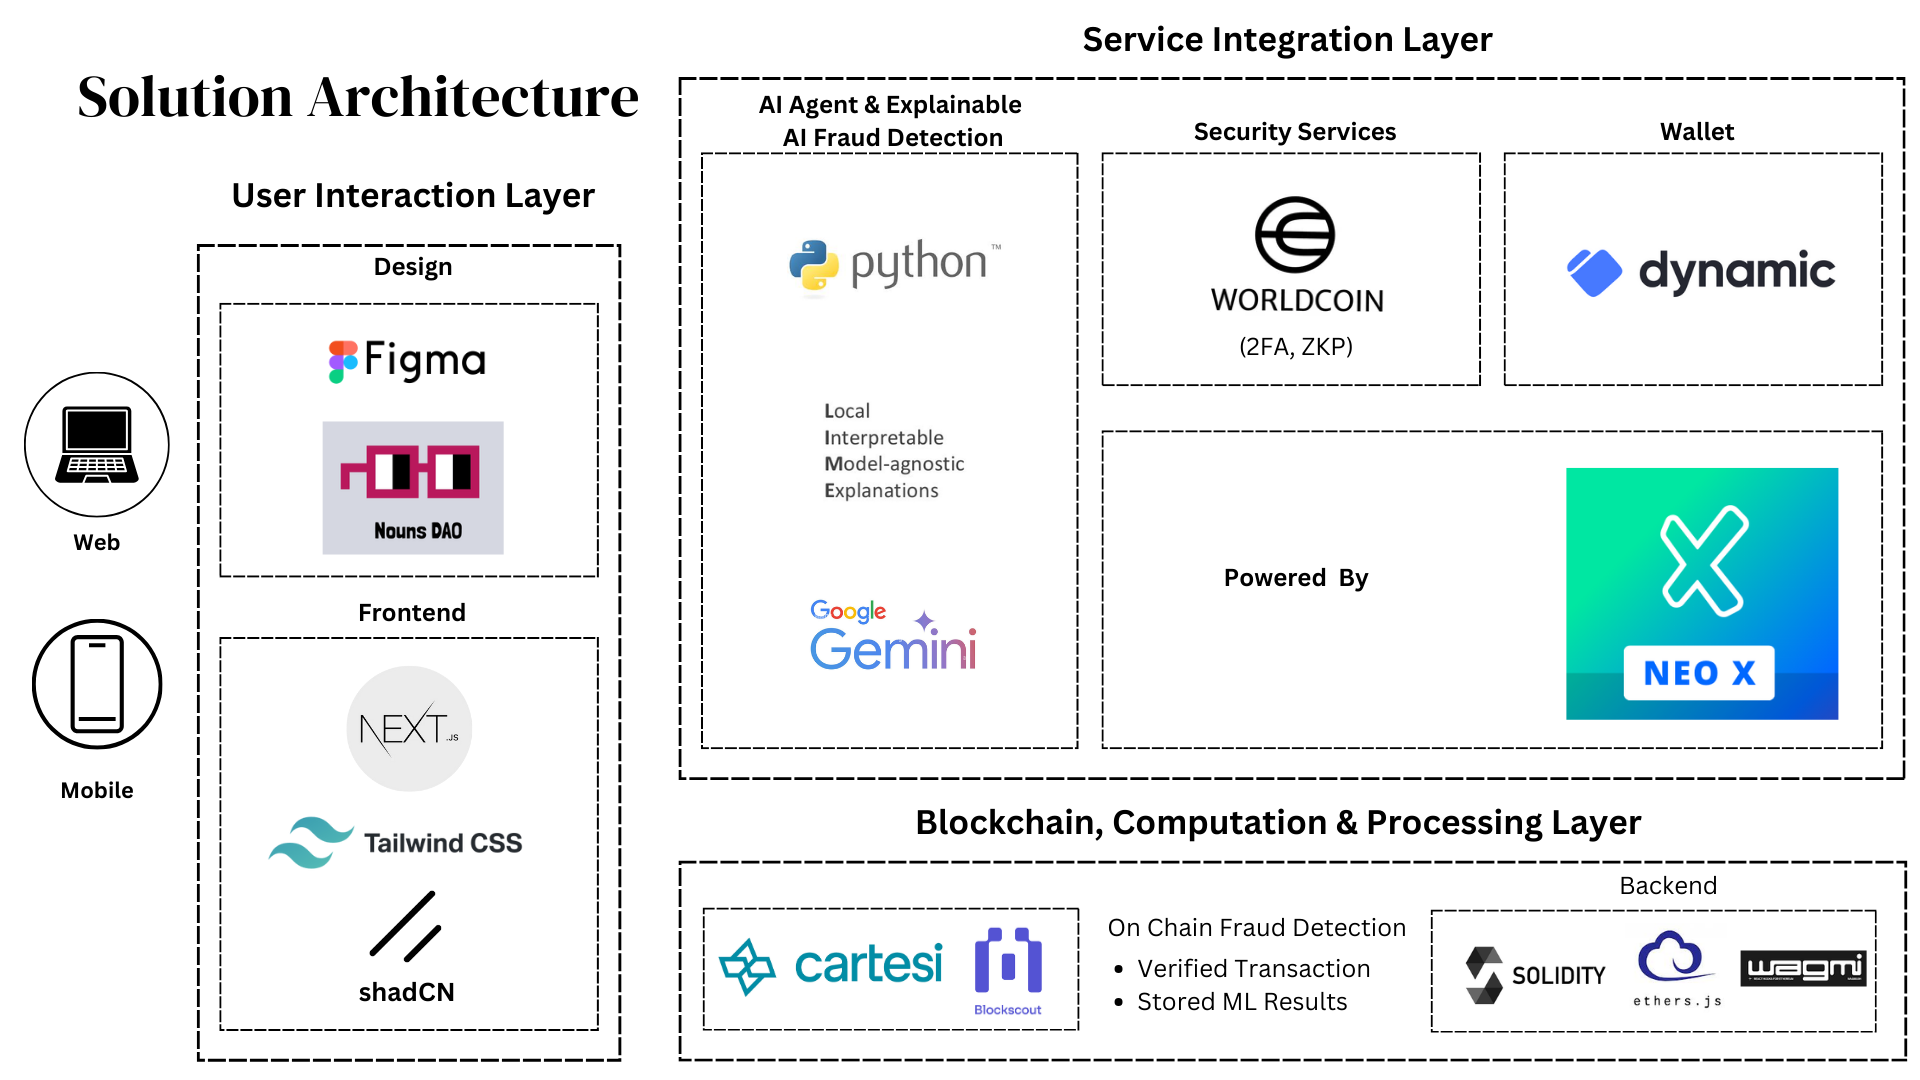
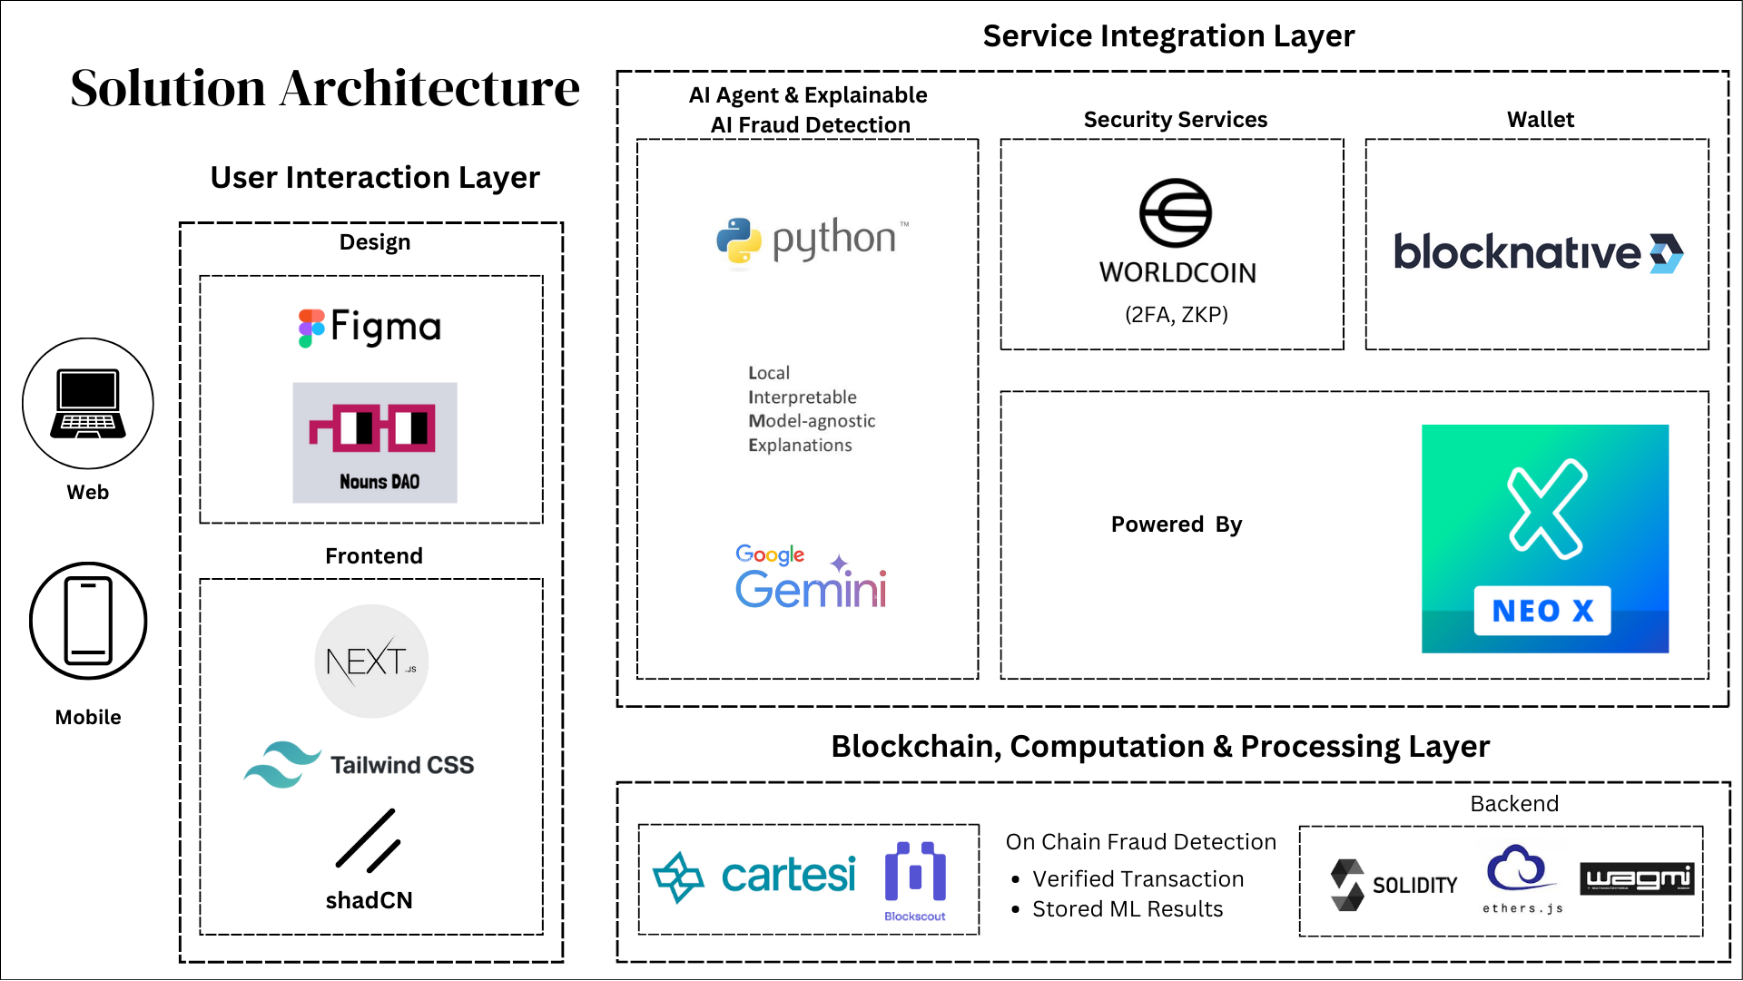
docs: finalize readme

diff --git a/README.md b/README.md
@@ -4,7 +4,7 @@
   
   <img src="brand-assets/app_logo.gif" alt="Coiny logo" width="120" height="120">
 
- # Coiny: 𝐀𝐈 𝐀𝐠𝐞𝐧𝐭-𝐏𝐨𝐰𝐞𝐫𝐞𝐝 𝐌𝐮𝐥𝐭𝐢𝐬𝐢𝐠 𝐖𝐚𝐥𝐥𝐞𝐭
+ # 𝐂𝐨𝐢𝐧𝐲: 𝐀𝐈 𝐀𝐠𝐞𝐧𝐭-𝐏𝐨𝐰𝐞𝐫𝐞𝐝 𝐌𝐮𝐥𝐭𝐢𝐬𝐢𝐠 𝐖𝐚𝐥𝐥𝐞𝐭
 
   
   <h3>Wallet setup so easy, your grandma could do it.</h3>
@@ -15,10 +15,10 @@
 
 
   <div align="center">
-    <a href="https://www.canva.com/design/DAGTitVXqlE/t7WkGXMlWDlaivduh9fXww/edit?utm_content=DAGTitVXqlE&utm_campaign=designshare&utm_medium=link2&utm_source=sharebutton" target="_blank">
+    <a href="https://www.canva.com/design/DAGTitVXqlE/OmAGwNlMETwuiE7WTlD7QQ/view?utm_content=DAGTitVXqlE&utm_campaign=designshare&utm_medium=link2&utm_source=uniquelinks&utlId=hb0f7386611" target="_blank">
       <img src="https://img.shields.io/badge/View%20Whitepaper-E6A8D7?style=for-the-badge&logo=readthedocs&logoColor=white" alt="Whitepaper" />
     </a>
-    <a href="https://www.canva.com/design/DAGWFu9r5Tg/KvKgIk_9lf0UqSxUlkW_Tg/edit?utm_content=DAGWFu9r5Tg&utm_campaign=designshare&utm_medium=link2&utm_source=sharebutton" target="_blank">
+    <a href="https://www.canva.com/design/DAGWFu9r5Tg/5bVga_r5qXrpsTZ2pkb_2g/view?utm_content=DAGWFu9r5Tg&utm_campaign=designshare&utm_medium=link2&utm_source=uniquelinks&utlId=h5bbc6ab241" target="_blank">
       <img src="https://img.shields.io/badge/View%20Pitch%20Deck-B9E8E0?style=for-the-badge&logo=slideshare&logoColor=white" alt="Pitch Deck" />
     </a>
   </div>
@@ -30,8 +30,8 @@
   <div>
     <img src="brand-assets/neo_x_logo.png" alt="Neo X" width="40" height="40" style="margin: 10px;">
     <img src="https://cryptologos.cc/logos/worldcoin-org-wld-logo.png?v=035" alt="World ID" width="40" height="40" style="margin: 10px;">
-    <img src="https://cdn.prod.website-files.com/626692727bba3f384e008e8a/6499b55a681541b17b9c9854_logo-white-dynamic.png" alt="Dynamic" width="60" height="40" style="margin: 10px;">
-    <img src="brand-assets/blockscout_logo.png" alt="Blockscout" width="60" height="40" style="margin: 10px;">
+    <img src="brand-assets/blocknative_logo.png" alt="Blocknative" width="40" height="40" style="margin: 10px;">
+    <img src="brand-assets/blockscout_logo.png" alt="Blockscout" width="40" height="40" style="margin: 10px;">
   </div>
 
 </div>
@@ -51,7 +51,7 @@
 
 ---
 ## 𝐎𝐯𝐞𝐫𝐯𝐢𝐞𝐰
-𝐊𝐚-𝐂𝐡𝐢𝐧𝐠 is an AI-driven multisig wallet designed to make managing and securing digital assets simple and accessible. Powered by advanced AI features and decentralized protocols, Coiny enables real-time fraud detection, AI-assisted wallet creation, customizable security, and a gamified experience—all built to work seamlessly in the Web 3 ecosystem.
+Coiny is an AI-driven multisig wallet designed to make managing and securing digital assets simple and accessible. Powered by advanced AI features and decentralized protocols, Coiny enables real-time fraud detection, AI-assisted wallet creation, customizable security, and a gamified experience—all built to work seamlessly in the Web 3 ecosystem.
 
 <p align="right">(<a href="#readme-top">back to top</a>)</p>
 
@@ -136,17 +136,23 @@ Investing in Coiny means supporting a transformative leap in the DeFi space. Our
 
 ## Contract Deployment (Verified)
 
-| Bounty              | Contract Name(s)                              | Address(es)                                                                                                                   | Link(s)                                                                                                                                                                                                                                                                                                                                                                                                                                                                                     | Contract Verification | Status    |
-|---------------------|-----------------------------------------------|-------------------------------------------------------------------------------------------------------------------------------|---------------------------------------------------------------------------------------------------------------------------------------------------------------------------------------------------------------------------------------------------------------------------------------------------------------------------------------------------------------------------------------------------------------------------------------------------------------------------------------------|-----------------------|-----------|
-| Mantle             | Tuktra.sol                                    | 0xea2855a25aaca144af352d413375dac883b9ec3e                                                                                    | [Mantle Scan](https://sepolia.mantlescan.xyz/address/0xea2855a25aaca144af352d413375dac883b9ec3e#code)                                                                                                                                                                                                                                                                                                                                                | Verified              | Deployed  |
-| Morph Holesky Testnet | Tuktra.sol                                    | 0x3d981849e32b8ec58dcab7706b667005880d5ac6                                                                                    | [Morph Holesky](https://explorer-holesky.morphl2.io/address/0x3D981849E32b8ec58dcAb7706b667005880D5Ac6?tab=contract)                                                                                                                                                                                                                                                                                                                                  | Verified              | Deployed  |
-| Zircult Testnet    | Tuktra.sol                                    | 0x3d981849e32b8ec58dcab7706b667005880d5ac6                                                                                    | [Zircult Testnet](https://explorer.testnet.zircuit.com/address/0x3D981849E32b8ec58dcAb7706b667005880D5Ac6?activeTab=3)                                                                                                                                                                                                                                                                                                                              | Verified              | Deployed  |
-| Rootstock Testnet  | Tuktra.sol                                    | 0x3d981849e32b8ec58dcab7706b667005880d5ac6                                                                                    | [Rootstock Testnet](https://explorer.testnet.rootstock.io/address/0x3d981849e32b8ec58dcab7706b667005880d5ac6?__ctab=Code)                                                                                                                                                                                                                                                                                                                            | Verified              | Deployed  |
-| Linea Sepolia      | Tuktra.sol                                    | 0x3d981849e32b8ec58dcab7706b667005880d5ac6                                                                                    | [Linea Sepolia](https://sepolia.lineascan.build/address/0x3d981849e32b8ec58dcab7706b667005880d5ac6#code)                                                                                                                                                                                                                                                                                                                                             | Verified              | Deployed  |
-| Flow Testnet       | Tuktra.sol                                    | 0x3D981849E32b8ec58dcAb7706b667005880D5Ac6                                                                                    | [Flow Testnet](https://evm-testnet.flowscan.io/address/0x3D981849E32b8ec58dcAb7706b667005880D5Ac6?tab=contract)                                                                                                                                                                                                                                                                                                                                     | Verified              | Deployed  |
-| Celo Alfajores Testnet | Tuktra.sol                                 | 0x3d981849e32b8ec58dcab7706b667005880d5ac6                                                                                    | [Celo Alfajores](https://alfajores.celoscan.io/address/0x3d981849e32b8ec58dcab7706b667005880d5ac6#code)                                                                                                                                                                                                                                                                                                                                              | Verified              | Deployed  |
-| Base               | CartesiDApp.sol                               | 0x9B237718010dA3d929808EcC02Fe29E583cD8429                                                                                    | [Base Scan](https://sepolia.basescan.org/address/0x9B237718010dA3d929808EcC02Fe29E583cD8429#code), [Cartesi Explorer](https://base-sepolia.cartesiscan.io/applications/0x9b237718010da3d929808ecc02fe29e583cd8429)                                                                                                                                                                                        | Verified              | Deployed  |
-| Scroll             | Multiple Contracts: SimulateTxAccessor.sol, GnosisSafeProxyFactory.sol, DefaultCallbackHandler.sol, CompatibilityFallbackHandler.sol, CreateCall.sol, MultiSend.sol, MultiSendCallOnly.sol, SignMessageLib.sol, GnosisSafeL2.sol, GnosisSafe.sol | 0x59AD6735bCd8152B84860Cb256dD9e96b85F69Da, 0xa6B71E26C5e0845f74c812102Ca7114b6a896AB2, 0x1AC114C2099aFAf5261731655Dc6c306bFcd4Dbd, 0xf48f2B2d2a534e402487b3ee7C18c33Aec0Fe5e4, 0x7cbB62EaA69F79e6873cD1ecB2392971036cFAa4, 0xA238CBeb142c10Ef7Ad8442C6D1f9E89e07e7761, 0x40A2aCCbd92BCA938b02010E17A5b8929b49130D, 0xA65387F16B013cf2Af4605Ad8aA5ec25a2cbA3a2, 0x3E5c63644E683549055b9Be8653de26E0B4CD36E, 0xd9Db270c1B5E3Bd161E8c8503c55cEABeE709552 | [0x59AD6735](https://sepolia.scrollscan.com/address/0x59AD6735bCd8152B84860Cb256dD9e96b85F69Da), [0x7cbB62](https://sepolia.scrollscan.com/address/0x7cbB62EaA69F79e6873cD1ecB2392971036cFAa4), [0xA238CB](https://sepolia.scrollscan.com/address/0xA238CBeb142c10Ef7Ad8442C6D1f9E89e07e7761), [0x40A2AC](https://sepolia.scrollscan.com/address/0x40A2aCCbd92BCA938b02010E17A5b8929b49130D), [0xA65387](https://sepolia.scrollscan.com/address/0xd9Db270c1B5E3Bd161E8c8503c55cEABeE709552) | Verified              | Deployed  |
+| Contract Name                             | Address                                                                                                                  | Link                                                                                                                                                                                                                                                     |
+|-----------------------------------------------|-------------------------------------------------------------------------------------------------------------------------------|-------------------------------------------------------------------------------------------------------------------------------------------------------------------------------------------------------------------------------------------------------------|
+| TukTra                                    | 0x3D981849E32b8ec58dcAb7706b667005880D5Ac6                                                                                    | [Explorer](https://xexplorer.neo.org/address/0x3D981849E32b8ec58dcAb7706b667005880D5Ac6)                                                                                                                                                                   |
+| SimulateTxAccessor                            | 0x07EfA797c55B5DdE3698d876b277aBb6B893654C                                                                                    | [Explorer](https://xexplorer.neo.org/address/0x07EfA797c55B5DdE3698d876b277aBb6B893654C)                                                                                                                                                                   |
+| SafeProxyFactory                              | 0x886D92443799Fc88c31573E3EB7e4DE66AD0b0a6                                                                                    | [Explorer](https://xexplorer.neo.org/address/0x886D92443799Fc88c31573E3EB7e4DE66AD0b0a6)                                                                                                                                                                   |
+| TokenCallbackHandler                          | 0x0196488150f795A8Ba45a659E12e82E653d3D91D                                                                                    | [Explorer](https://xexplorer.neo.org/address/0x0196488150f795A8Ba45a659E12e82E653d3D91D)                                                                                                                                                                   |
+| CompatibilityFallbackHandler                  | 0x411c6dbBb6c908f7345b0156C47FD0b5B986D48D                                                                                    | [Explorer](https://xexplorer.neo.org/address/0x411c6dbBb6c908f7345b0156C47FD0b5B986D48D)                                                                                                                                                                   |
+| ExtensibleFallbackHandler                     | 0x383562d3d82E390bbB5909a5B2a574Ba23ec2ADD                                                                                    | [Explorer](https://xexplorer.neo.org/address/0x383562d3d82E390bbB5909a5B2a574Ba23ec2ADD)                                                                                                                                                                   |
+| CreateCall                                    | 0xB22D635D552eC95142E2Abe3FfB859eA7d7C0316                                                                                    | [Explorer](https://xexplorer.neo.org/address/0xB22D635D552eC95142E2Abe3FfB859eA7d7C0316)                                                                                                                                                                   |
+| MultiSend                                     | 0x218543288004CD07832472D464648173c77D7eB7                                                                                    | [Explorer](https://xexplorer.neo.org/address/0x218543288004CD07832472D464648173c77D7eB7)                                                                                                                                                                   |
+| MultiSendCallOnly                             | 0x3EbB62B65423a33a846416ff7Ce9BE6f9b86b3B4                                                                                    | [Explorer](https://xexplorer.neo.org/address/0x3EbB62B65423a33a846416ff7Ce9BE6f9b86b3B4)                                                                                                                                                                   |
+| SignMessageLib                                | 0x05A6FF767f1bb9e380dEb8ef3B291b2695Cde59A                                                                                    | [Explorer](https://xexplorer.neo.org/address/0x05A6FF767f1bb9e380dEb8ef3B291b2695Cde59A)                                                                                                                                                                   |
+| SafeToL2Setup                                 | 0x5941bAEf7a31933bF00B7f5Cc0Ae6abc6E41e3f0                                                                                    | [Explorer](https://xexplorer.neo.org/address/0x5941bAEf7a31933bF00B7f5Cc0Ae6abc6E41e3f0)                                                                                                                                                                   |
+| Safe                                          | 0x4544204163b39b4E27e3c4fBe29B5Ec416805D8B                                                                                    | [Explorer](https://xexplorer.neo.org/address/0x4544204163b39b4E27e3c4fBe29B5Ec416805D8B)                                                                                                                                                                   |
+| SafeL2                                        | 0xD3BCD6fad88DdfFB1F8F5C4e6efF3530dCF1a28D                                                                                    | [Explorer](https://xexplorer.neo.org/address/0xD3BCD6fad88DdfFB1F8F5C4e6efF3530dCF1a28D)                                                                                                                                                                   |
+| SafeToL2Migration                             | 0xB3d6882Aaec32b9757B2d64F00A1E0631C1CdA56                                                                                    | [Explorer](https://xexplorer.neo.org/address/0xB3d6882Aaec32b9757B2d64F00A1E0631C1CdA56)                                                                                                                                                                   |
+| SafeMigration                                 | 0x71fC3345540d0eAD356AcbfAAf529dB144C0Ec45                                                                                    | [Explorer](https://xexplorer.neo.org/address/0x71fC3345540d0eAD356AcbfAAf529dB144C0Ec45)                                                                                                                                                                   |
 
 
 ## 𝐂𝐨𝐧𝐭𝐚𝐜𝐭
